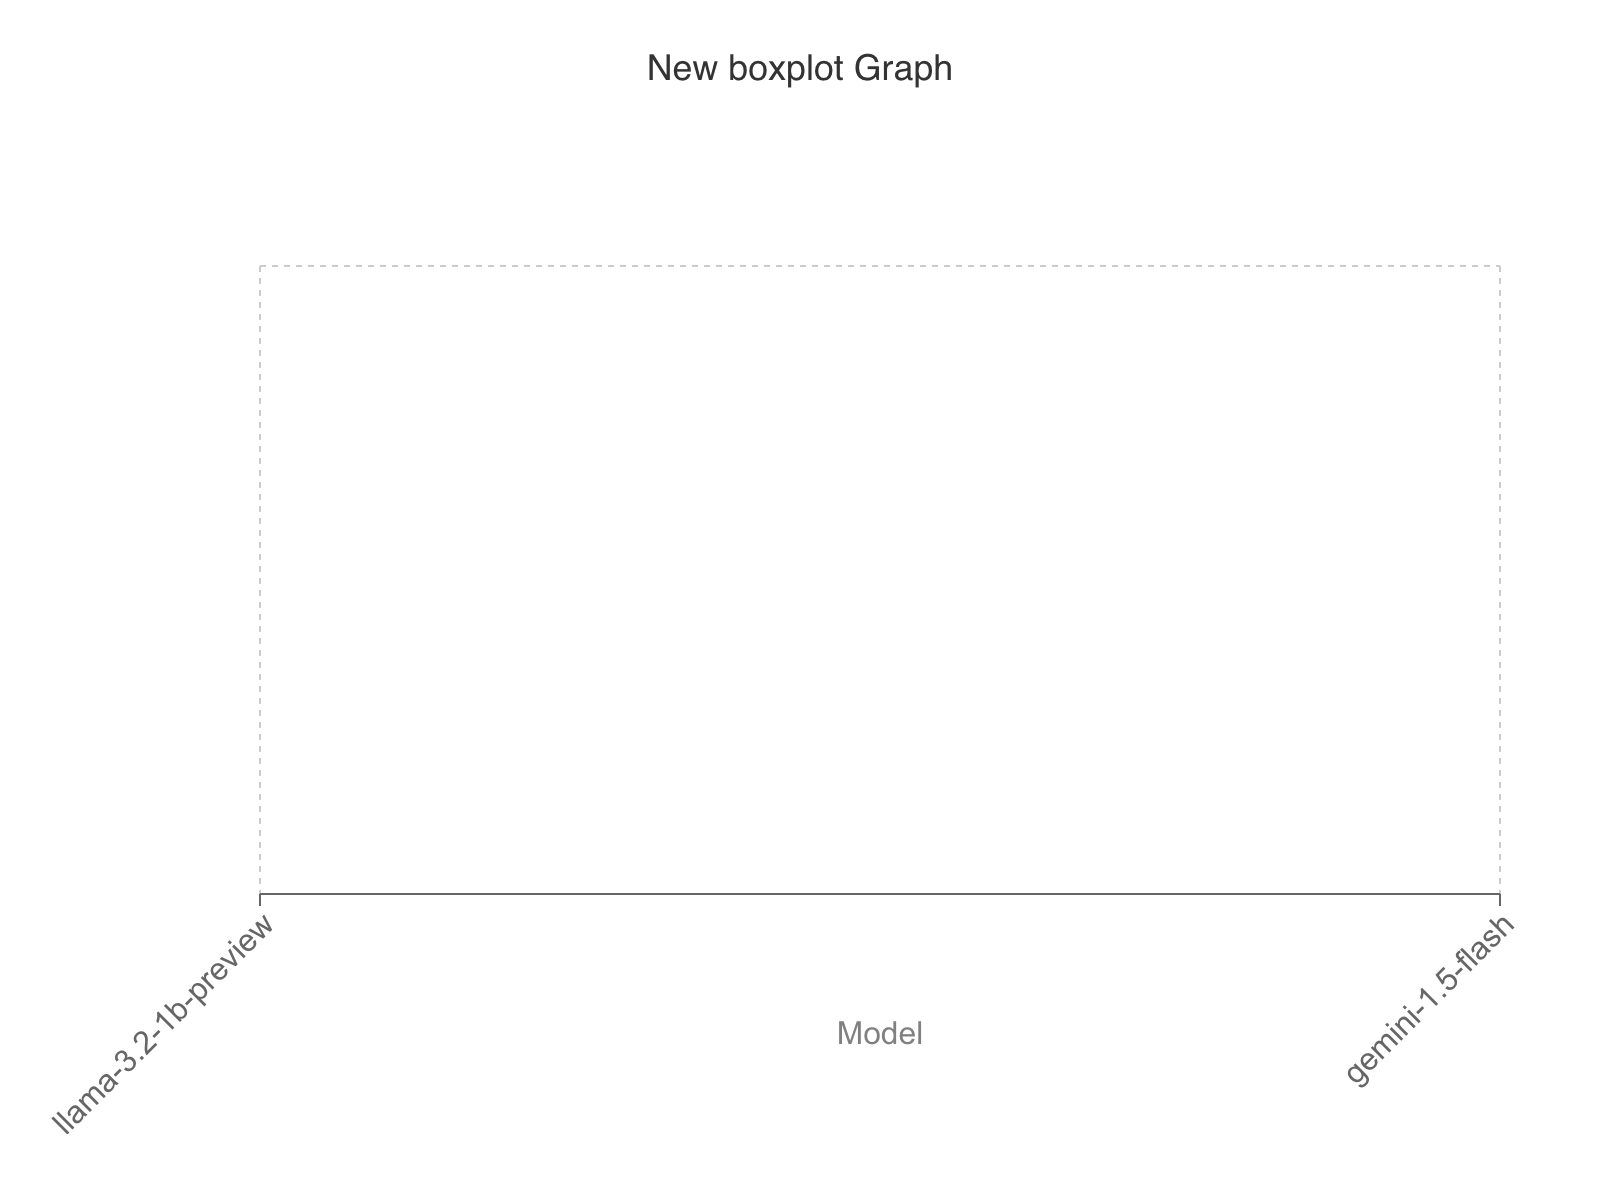
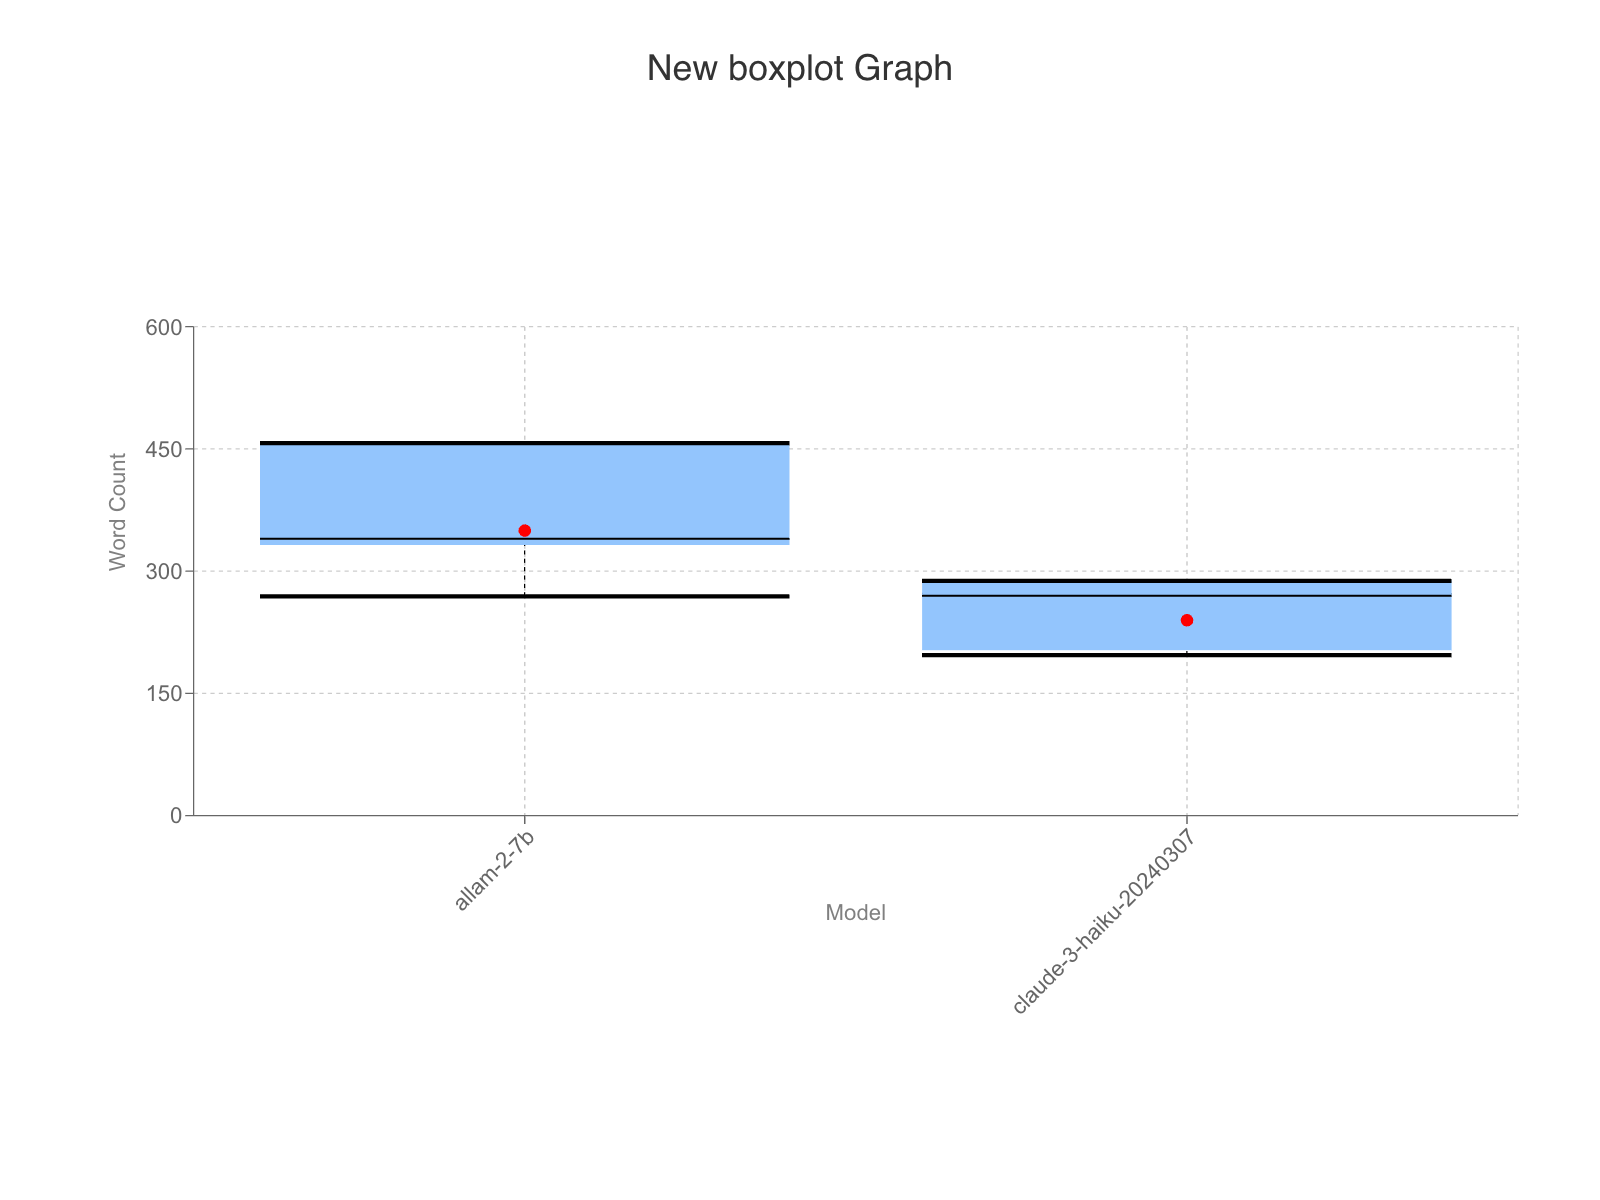
boxplot image working

diff --git a/src/lib/utils/graphImageExport.tsx b/src/lib/utils/graphImageExport.tsx
@@ -72,6 +72,11 @@ export const exportGraphAsImage = async (
     fileName?: string;
   } = {}
 ): Promise<string> => {
+  // For boxplots, we'll use a different approach to ensure proper rendering
+  if (config.type === 'boxplot') {
+    return exportBoxplotAsImage(data, config, options);
+  }
+
   // Create a container element for the graph
   const container = document.createElement('div');
   const width = options.width || 800;
@@ -113,7 +118,7 @@ export const exportGraphAsImage = async (
     // Render the chart and wait for it to be fully rendered
     await renderChart(chartContainer, data, config);
     
-    // Wait a bit longer to ensure the chart is fully rendered
+    // Wait for rendering
     await new Promise(resolve => setTimeout(resolve, 500));
     
     // Convert the container to an image
@@ -130,6 +135,100 @@ export const exportGraphAsImage = async (
     return dataUrl;
   } catch (error) {
     console.error('Error generating chart image:', error);
+    // Clean up on error
+    document.body.removeChild(container);
+    throw error;
+  }
+};
+
+/**
+ * Special export function for boxplots that captures the actual rendered boxplot
+ */
+const exportBoxplotAsImage = async (
+  data: AnalysisData,
+  config: GraphConfig,
+  options: {
+    title?: string;
+    width?: number;
+    height?: number;
+    fileName?: string;
+  } = {}
+): Promise<string> => {
+  // Find the existing boxplot in the DOM
+  const existingBoxplots = document.querySelectorAll('.recharts-wrapper');
+  let boxplotElement: Element | null = null;
+  
+  // Look for the boxplot that matches our config
+  for (const element of existingBoxplots) {
+    const parentElement = element.closest('.bg-white');
+    if (parentElement) {
+      const titleElement = parentElement.querySelector('input[type="text"]');
+      if (titleElement && (titleElement as HTMLInputElement).value === config.title) {
+        boxplotElement = element;
+        break;
+      }
+    }
+  }
+  
+  if (!boxplotElement) {
+    throw new Error('Could not find the boxplot element in the DOM');
+  }
+  
+  // Create a container for the image
+  const container = document.createElement('div');
+  const width = options.width || 800;
+  const height = options.height || 600;
+  
+  container.style.width = `${width}px`;
+  container.style.height = `${height}px`;
+  container.style.backgroundColor = 'white';
+  container.style.padding = '20px';
+  container.style.position = 'fixed';
+  container.style.left = '0';
+  container.style.top = '0';
+  container.style.zIndex = '-1000';
+  
+  // Create a title element
+  const titleElement = document.createElement('h2');
+  titleElement.textContent = options.title || config.title || generateDefaultTitle(config);
+  titleElement.style.textAlign = 'center';
+  titleElement.style.marginBottom = '20px';
+  titleElement.style.fontFamily = 'sans-serif';
+  titleElement.style.fontSize = '18px';
+  titleElement.style.color = '#333';
+  
+  // Append the title to the container
+  container.appendChild(titleElement);
+  
+  // Clone the boxplot element
+  const boxplotClone = boxplotElement.cloneNode(true) as HTMLElement;
+  boxplotClone.style.width = '100%';
+  boxplotClone.style.height = 'calc(100% - 60px)';
+  
+  // Append the boxplot clone to the container
+  container.appendChild(boxplotClone);
+  
+  // Append the container to the document body
+  document.body.appendChild(container);
+  
+  try {
+    // Wait for rendering
+    await new Promise(resolve => setTimeout(resolve, 500));
+    
+    // Convert the container to an image
+    const dataUrl = await toPng(container, { 
+      width, 
+      height,
+      backgroundColor: '#ffffff',
+      pixelRatio: 2 // Higher quality
+    });
+    
+    // Clean up
+    document.body.removeChild(container);
+    
+    return dataUrl;
+  } catch (error) {
+    console.error('Error generating boxplot image:', error);
     // Clean up on error
     document.body.removeChild(container);
     throw error;
@@ -181,8 +280,9 @@ const renderChart = async (
         </React.StrictMode>
       );
       
-      // Allow more time for the chart to render
-      setTimeout(resolve, 300);
+      // Allow more time for the chart to render, especially for boxplots
+      const waitTime = config.type === 'boxplot' ? 500 : 300;
+      setTimeout(resolve, waitTime);
     });
   });
 };
@@ -484,11 +584,27 @@ const renderBoxPlotChart = (data: AnalysisData, config: GraphConfig) => {
   // Process data for the chart (similar to BoxPlotGraph.tsx)
   const chartData = processBoxPlotChartData(data, config);
   
-  // Create a simpler representation of boxplots using regular bars and lines
+  // Transform the data for better rendering
+  const transformedData = chartData.map((entry, index) => {
+    // Create a transformed entry with explicit values for each part of the boxplot
+    return {
+      name: entry.name,
+      min: entry.boxPlotData.min,
+      q1: entry.boxPlotData.q1,
+      median: entry.boxPlotData.median,
+      q3: entry.boxPlotData.q3,
+      max: entry.boxPlotData.max,
+      // Add IQR as a separate value for the box
+      iqr: entry.boxPlotData.q3 - entry.boxPlotData.q1,
+      // Add index for positioning
+      index
+    };
+  });
+  
   return (
     <ResponsiveContainer width="100%" height="100%">
       <ComposedChart
-        data={chartData}
+        data={transformedData}
         margin={{ top: 30, left: 50, right: 30, bottom: 60 }}
       >
         <CartesianGrid strokeDasharray="3 3" />
@@ -506,6 +622,7 @@ const renderBoxPlotChart = (data: AnalysisData, config: GraphConfig) => {
           }}
         />
         <YAxis
+          domain={['auto', 'auto']}
           label={{ 
             value: config.yAxis.label,
             angle: -90,
@@ -514,61 +631,91 @@ const renderBoxPlotChart = (data: AnalysisData, config: GraphConfig) => {
         />
         <Tooltip 
           formatter={(value: any, name: string) => {
-            if (typeof value === 'object') {
-              return [`Min: ${value.min}, Q1: ${value.q1}, Median: ${value.median}, Q3: ${value.q3}, Max: ${value.max}`, name];
+            if (name === 'Box') {
+              const item = transformedData.find(d => d.iqr === value);
+              if (item) {
+                return [`Min: ${item.min}, Q1: ${item.q1}, Median: ${item.median}, Q3: ${item.q3}, Max: ${item.max}`, name];
+              }
             }
             return [value, name];
           }}
         />
         <Legend verticalAlign="top" height={36} />
         
-        {/* Render min-max range as a line */}
-        {chartData.map((entry, index) => (
+        {/* Min-Max whiskers */}
+        {transformedData.map((entry, index) => (
           <React.Fragment key={`boxplot-${index}`}>
-            {/* Min-Max Line */}
+            {/* Vertical line from min to max */}
             <Line
-              dataKey={(item) => item.boxPlotData.min}
+              dataKey="min"
+              data={[entry]}
               stroke="#3B82F6"
-              dot={false}
-              activeDot={false}
               isAnimationActive={false}
-              name={`${entry.name} Min`}
-              style={{ opacity: 0 }}
+              name="Min"
+              hide={true} // Hide from legend
             />
             <Line
-              dataKey={(item) => item.boxPlotData.max}
+              dataKey="max"
+              data={[entry]}
               stroke="#3B82F6"
-              dot={false}
-              activeDot={false}
               isAnimationActive={false}
-              name={`${entry.name} Max`}
-              style={{ opacity: 0 }}
+              name="Max"
+              hide={true} // Hide from legend
             />
             
-            {/* Q1-Q3 Box as a Bar */}
-            <Bar
-              dataKey={(item) => item.boxPlotData.q3 - item.boxPlotData.q1}
-              name={`${entry.name} IQR`}
-              fill="#93C5FD"
-              minPointSize={2}
+            {/* Horizontal line at min */}
+            <Line
+              dataKey="min"
+              data={[
+                { ...entry, name: `${entry.name}-left`, x: index - 0.2 },
+                { ...entry, name: `${entry.name}-right`, x: index + 0.2 }
+              ]}
+              stroke="#3B82F6"
               isAnimationActive={false}
-              barSize={30}
-              stackId={`stack-${index}`}
-              style={{ opacity: 0.8 }}
+              name="Min Line"
+              hide={true} // Hide from legend
             />
             
-            {/* Median Line */}
+            {/* Horizontal line at max */}
             <Line
-              dataKey={(item) => item.boxPlotData.median}
-              stroke="#1E40AF"
-              strokeWidth={2}
-              dot={false}
-              activeDot={false}
+              dataKey="max"
+              data={[
+                { ...entry, name: `${entry.name}-left`, x: index - 0.2 },
+                { ...entry, name: `${entry.name}-right`, x: index + 0.2 }
+              ]}
+              stroke="#3B82F6"
               isAnimationActive={false}
-              name={`${entry.name} Median`}
-              style={{ opacity: 0.8 }}
+              name="Max Line"
+              hide={true} // Hide from legend
             />
           </React.Fragment>
+        ))}
+        
+        {/* Q1-Q3 boxes */}
+        <Bar
+          dataKey="iqr"
+          fill="#93C5FD"
+          stroke="#3B82F6"
+          name="Box"
+          isAnimationActive={false}
+          barSize={40}
+        />
+        
+        {/* Median lines */}
+        {transformedData.map((entry, index) => (
+          <Line
+            key={`median-${index}`}
+            data={[
+              { ...entry, name: `${entry.name}-left`, x: index - 0.2, y: entry.median },
+              { ...entry, name: `${entry.name}-right`, x: index + 0.2, y: entry.median }
+            ]}
+            dataKey="y"
+            stroke="#1E40AF"
+            strokeWidth={2}
+            isAnimationActive={false}
+            name="Median"
+            hide={true} // Hide from legend
+          />
         ))}
       </ComposedChart>
     </ResponsiveContainer>
